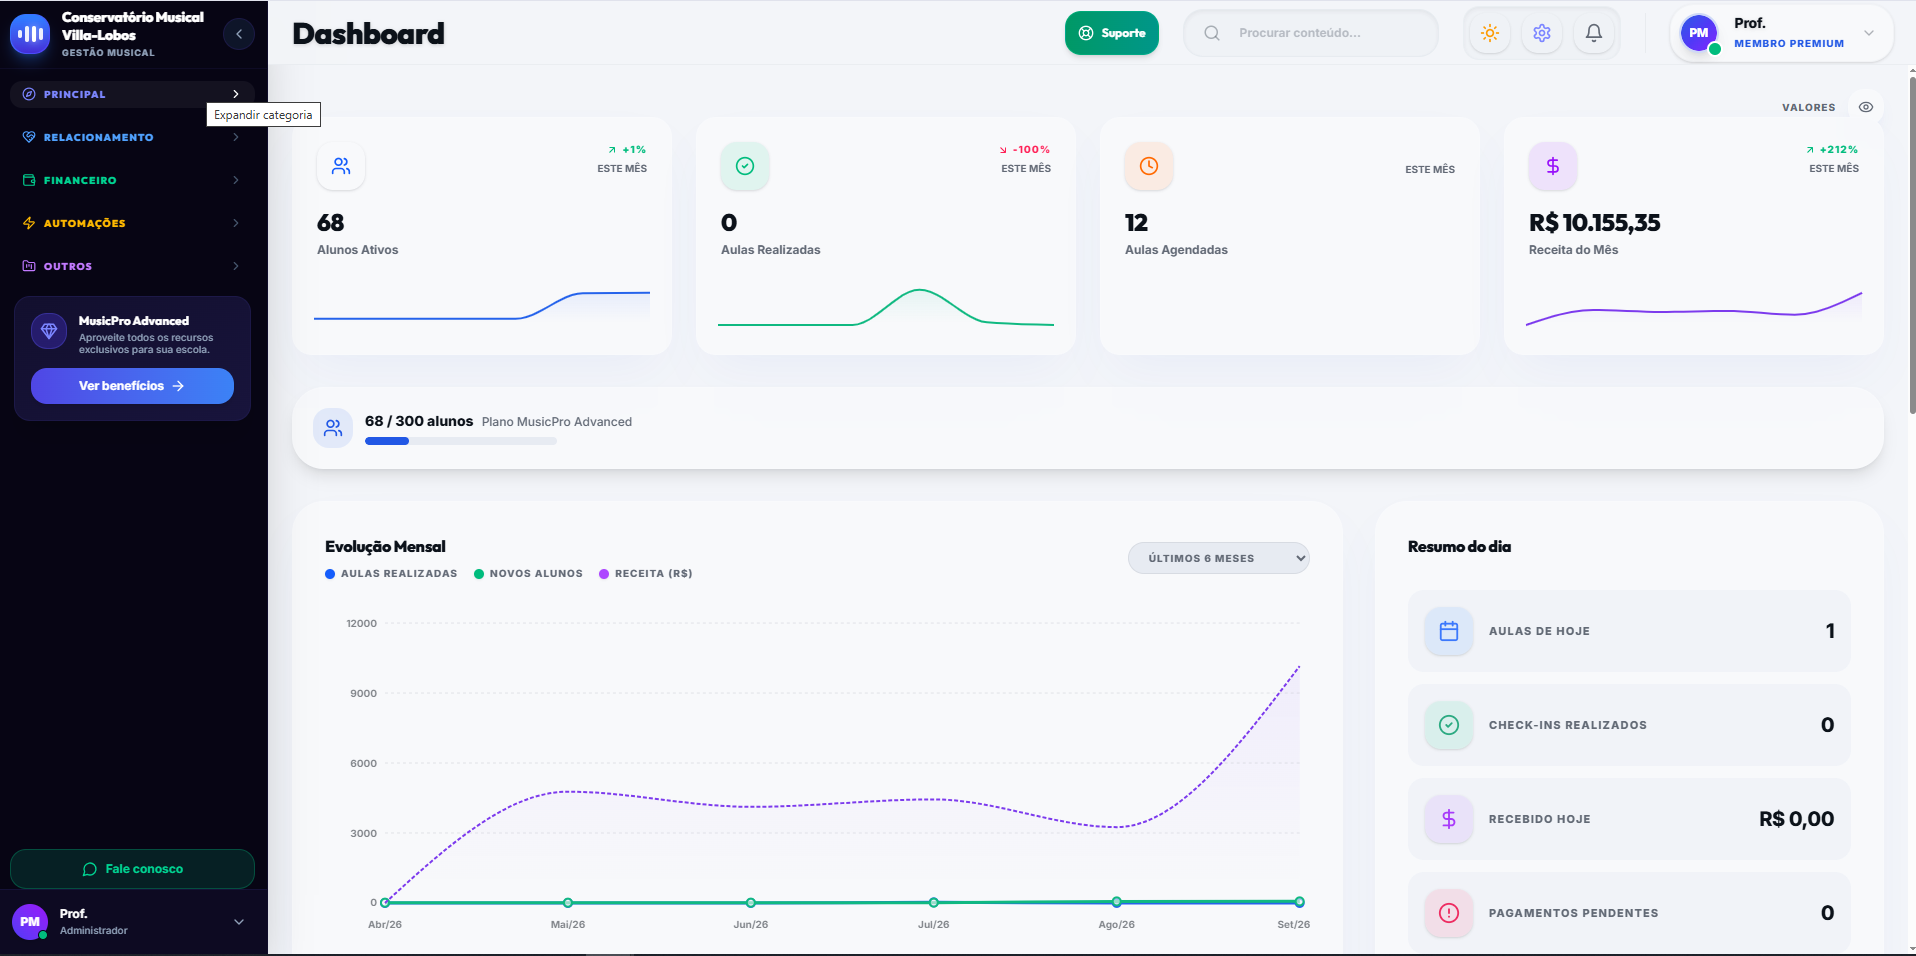
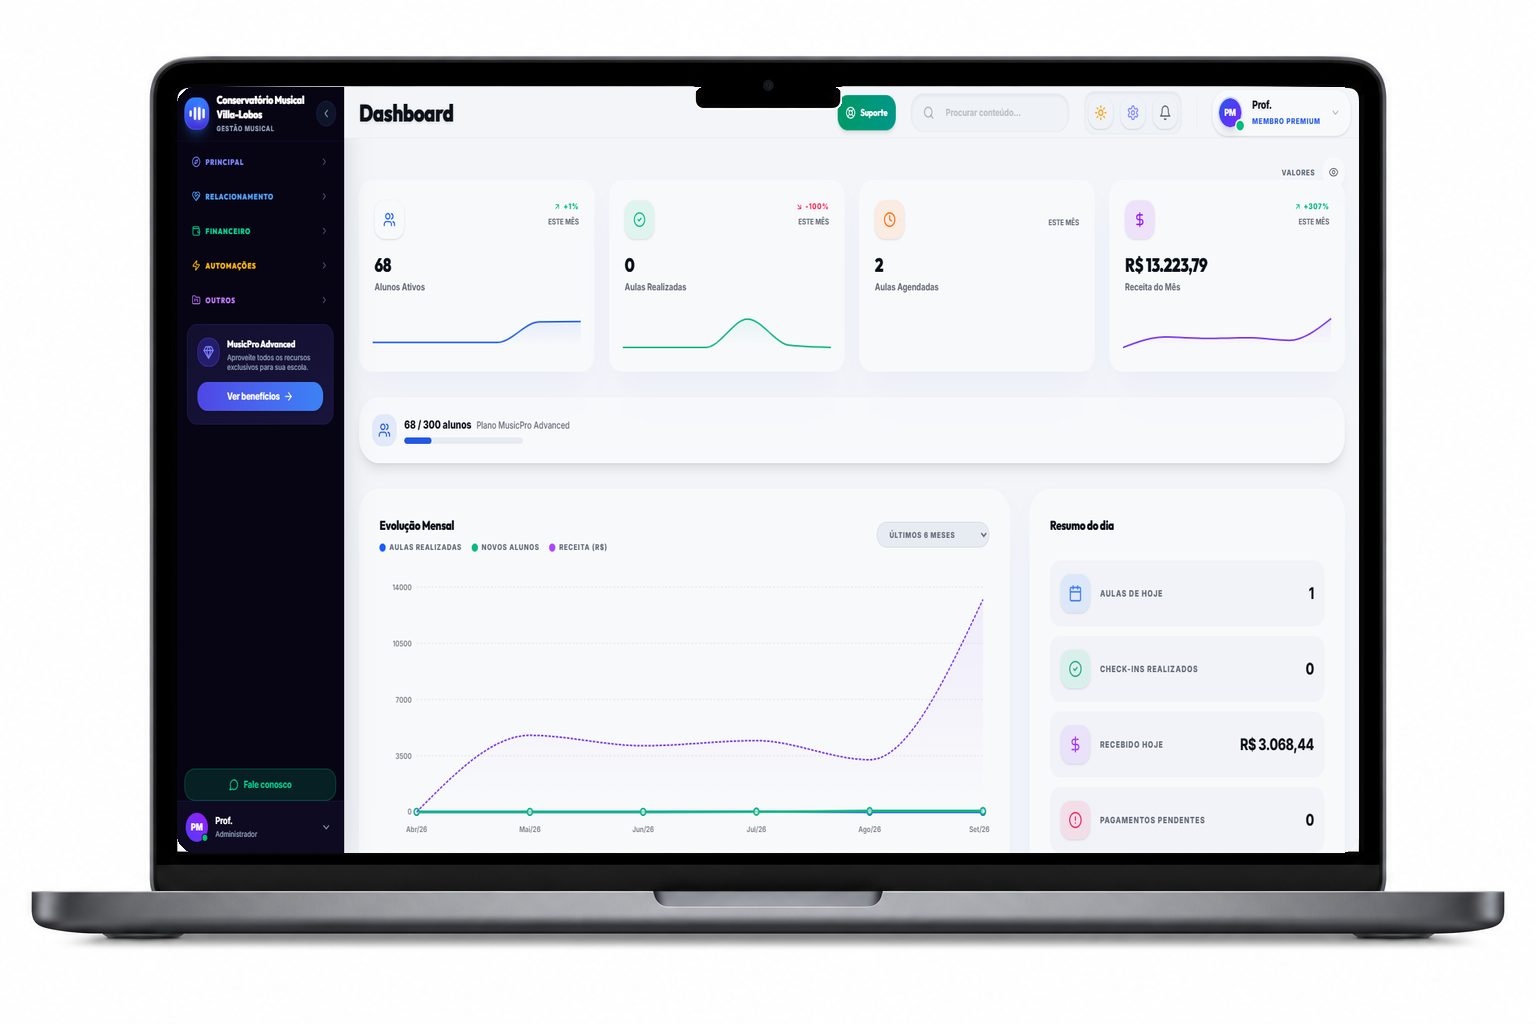
feat: layout lado a lado (notebook e celular sem sobreposicao) + composicao do dashboard

diff --git a/src/components/sections/SistemaShowcase.tsx b/src/components/sections/SistemaShowcase.tsx
@@ -140,6 +140,49 @@ export function SistemaShowcase({ itens }: { itens: TelaSistema[] }) {
 
   if (!ativo) return null;
 
+  const temDesktop = Boolean(ativo.desktop);
+  const temMobile = Boolean(ativo.mobile);
+
+  const conteudoDesktop = temDesktop ? (
+    ativo.desktopCompleto ? (
+      <ImagemCompleta
+        src={ativo.desktop}
+        alt={`Funcionalidade: ${ativo.titulo}`}
+        aspecto="1536 / 1024"
+        sizes="(max-width: 640px) 92vw, (max-width: 1024px) 70vw, 560px"
+      />
+    ) : (
+      <LaptopFrame>
+        <ConteudoTela
+          src={ativo.desktop}
+          alt={`Funcionalidade: ${ativo.titulo}`}
+          sizes="(max-width: 1024px) 92vw, 700px"
+          ajuste={ativo.ajusteDesktop}
+        />
+      </LaptopFrame>
+    )
+  ) : null;
+
+  const conteudoMobile = temMobile ? (
+    ativo.mobileCompleto ? (
+      <ImagemCompleta
+        src={ativo.mobile}
+        alt={`Funcionalidade no celular: ${ativo.titulo}`}
+        aspecto="1028 / 2071"
+        sizes="(max-width: 640px) 200px, 260px"
+      />
+    ) : (
+      <PhoneFrame>
+        <ConteudoTela
+          src={ativo.mobile}
+          alt={`Funcionalidade no celular: ${ativo.titulo}`}
+          sizes="(max-width: 640px) 120px, 180px"
+          ajuste={ativo.ajusteMobile}
+        />
+      </PhoneFrame>
+    )
+  ) : null;
+
   return (
     <Section id="sistema" className="relative overflow-hidden bg-white">
       <div
@@ -292,49 +335,27 @@ export function SistemaShowcase({ itens }: { itens: TelaSistema[] }) {
               id="painel-tela"
               role="tabpanel"
               aria-labelledby={`aba-${ativo.id}`}
-              className="relative pr-4 pb-8 sm:pr-10 sm:pb-10"
             >
-              <div key={`${ativo.id}-desktop-${versao}`} className="animate-rise">
-                {ativo.desktopCompleto && ativo.desktop ? (
-                  <ImagemCompleta
-                    src={ativo.desktop}
-                    alt={`Funcionalidade: ${ativo.titulo}`}
-                    aspecto="1536 / 1024"
-                    sizes="(max-width: 1024px) 92vw, 700px"
-                  />
-                ) : (
-                  <LaptopFrame>
-                    <ConteudoTela
-                      src={ativo.desktop}
-                      alt={`Funcionalidade: ${ativo.titulo}`}
-                      sizes="(max-width: 1024px) 92vw, 700px"
-                      ajuste={ativo.ajusteDesktop}
-                    />
-                  </LaptopFrame>
-                )}
-              </div>
-
               <div
-                key={`${ativo.id}-mobile-${versao}`}
-                className="animate-rise absolute right-0 bottom-0 w-32 [animation-delay:140ms] sm:w-40 lg:w-52"
+                key={`${ativo.id}-conteudo-${versao}`}
+                className="animate-rise"
               >
-                {ativo.mobileCompleto && ativo.mobile ? (
-                  <ImagemCompleta
-                    src={ativo.mobile}
-                    alt={`Funcionalidade no celular: ${ativo.titulo}`}
-                    aspecto="1028 / 2071"
-                    sizes="(max-width: 640px) 160px, 260px"
-                  />
-                ) : (
-                  <PhoneFrame>
-                    <ConteudoTela
-                      src={ativo.mobile}
-                      alt={`Funcionalidade no celular: ${ativo.titulo}`}
-                      sizes="(max-width: 640px) 120px, 180px"
-                      ajuste={ativo.ajusteMobile}
-                    />
-                  </PhoneFrame>
-                )}
+                {temDesktop && temMobile ? (
+                  <div className="flex flex-col items-center gap-6 sm:flex-row sm:items-end sm:gap-8 lg:gap-10">
+                    <div className="w-full min-w-0 flex-1">
+                      {conteudoDesktop}
+                    </div>
+                    <div className="w-44 shrink-0 sm:w-36 lg:w-44">
+                      {conteudoMobile}
+                    </div>
+                  </div>
+                ) : temDesktop ? (
+                  <div>{conteudoDesktop}</div>
+                ) : temMobile ? (
+                  <div className="flex justify-center">
+                    <div className="w-52 sm:w-64">{conteudoMobile}</div>
+                  </div>
+                ) : null}
               </div>
             </div>
           </Reveal>

diff --git a/src/content/telas.ts b/src/content/telas.ts
@@ -26,8 +26,8 @@ export const telasSistema: TelaSistema[] = [
     sistema: "MusicPro",
     desktop: "/prints/musicpro-dashboard-desktop.png",
     mobile: "/prints/musicpro-dashboard-mobile.png",
+    desktopCompleto: true,
     mobileCompleto: true,
-    ajusteDesktop: "contain",
   },
   {
     id: "portal-aluno",
